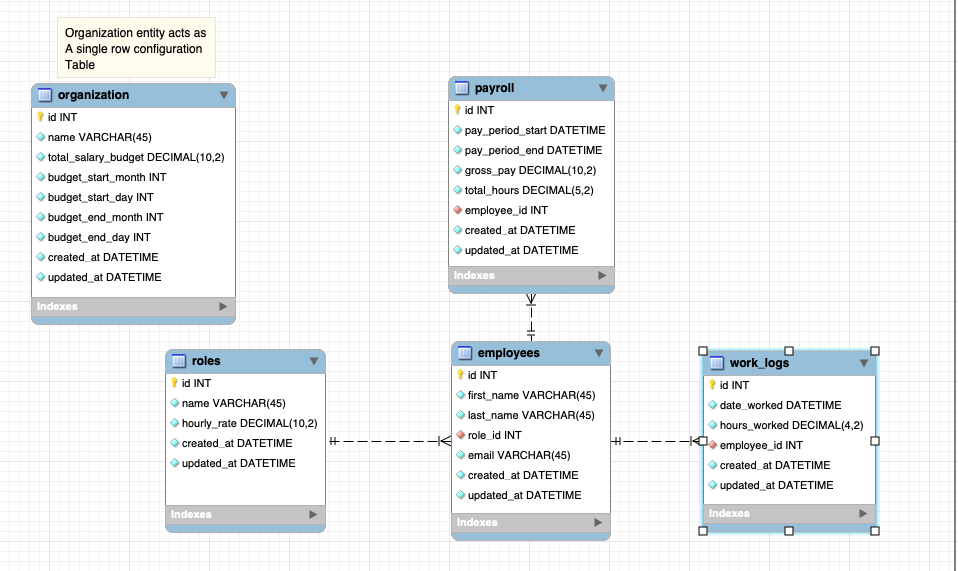
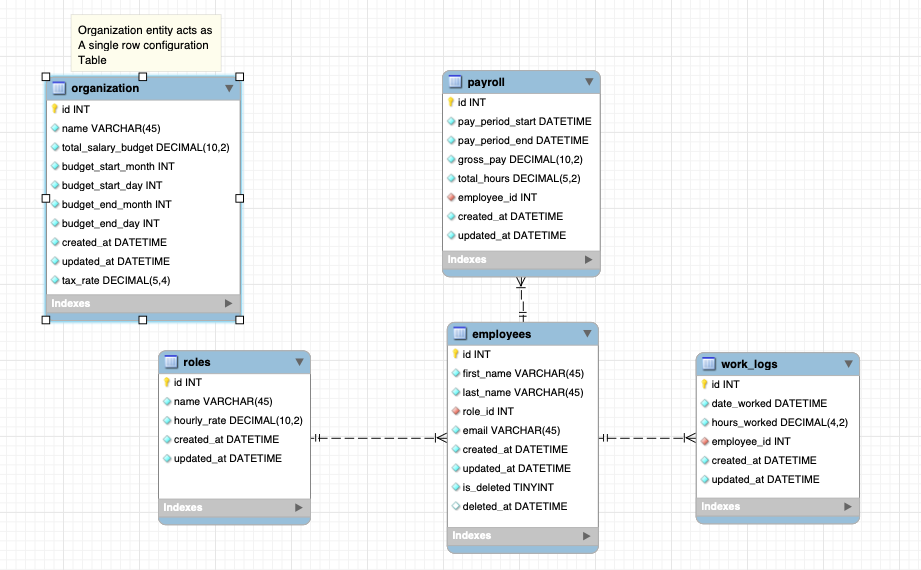
edited employee and org entities to include deletion status & date, and tax rate fields respectively

Changed region(s): [[0.0304, 0.0298, 0.6688, 0.9842], [0.6384, 0.5965, 0.9425, 0.9544], [0.9729, 0.0, 1.0, 1.0]]

diff --git a/app/models/employee.py b/app/models/employee.py
@@ -8,6 +8,8 @@ class Employee(db.Model, TimestampMixin):
     first_name = db.Column(db.String(45), nullable=False)
     last_name = db.Column(db.String(45), nullable=False)
     email = db.Column(db.String(45), unique=True, nullable=False)
+    is_deleted = db.Column(db.Boolean, default=False, nullable=False)
+    deleted_at = db.Column(db.DateTime, nullable=True)
 
     role_id = db.Column(
         db.Integer, 

diff --git a/app/services/employe_service.py b/app/services/employe_service.py
@@ -101,7 +101,8 @@ class EmployeeService:
             return False
             
         try:
-            db.session.delete(employee)
+            # db.session.delete(employee) # soft deletions instead of perm deletions to keep records intact
+            return
             db.session.commit()
             logger.info(f"Deleted employee id '{emp_id}'")
             return True

diff --git a/app/models/organization.py b/app/models/organization.py
@@ -11,3 +11,4 @@ class Organization(db.Model, TimestampMixin):
     budget_start_day= db.Column(db.Integer, default=1)
     budget_end_month = db.Column(db.Integer, default=12)
     budget_end_day = db.Column(db.Integer, default=31)
+    tax_rate = db.Column(db.Numerid(5, 4), nullable=False, default=0.0000)
